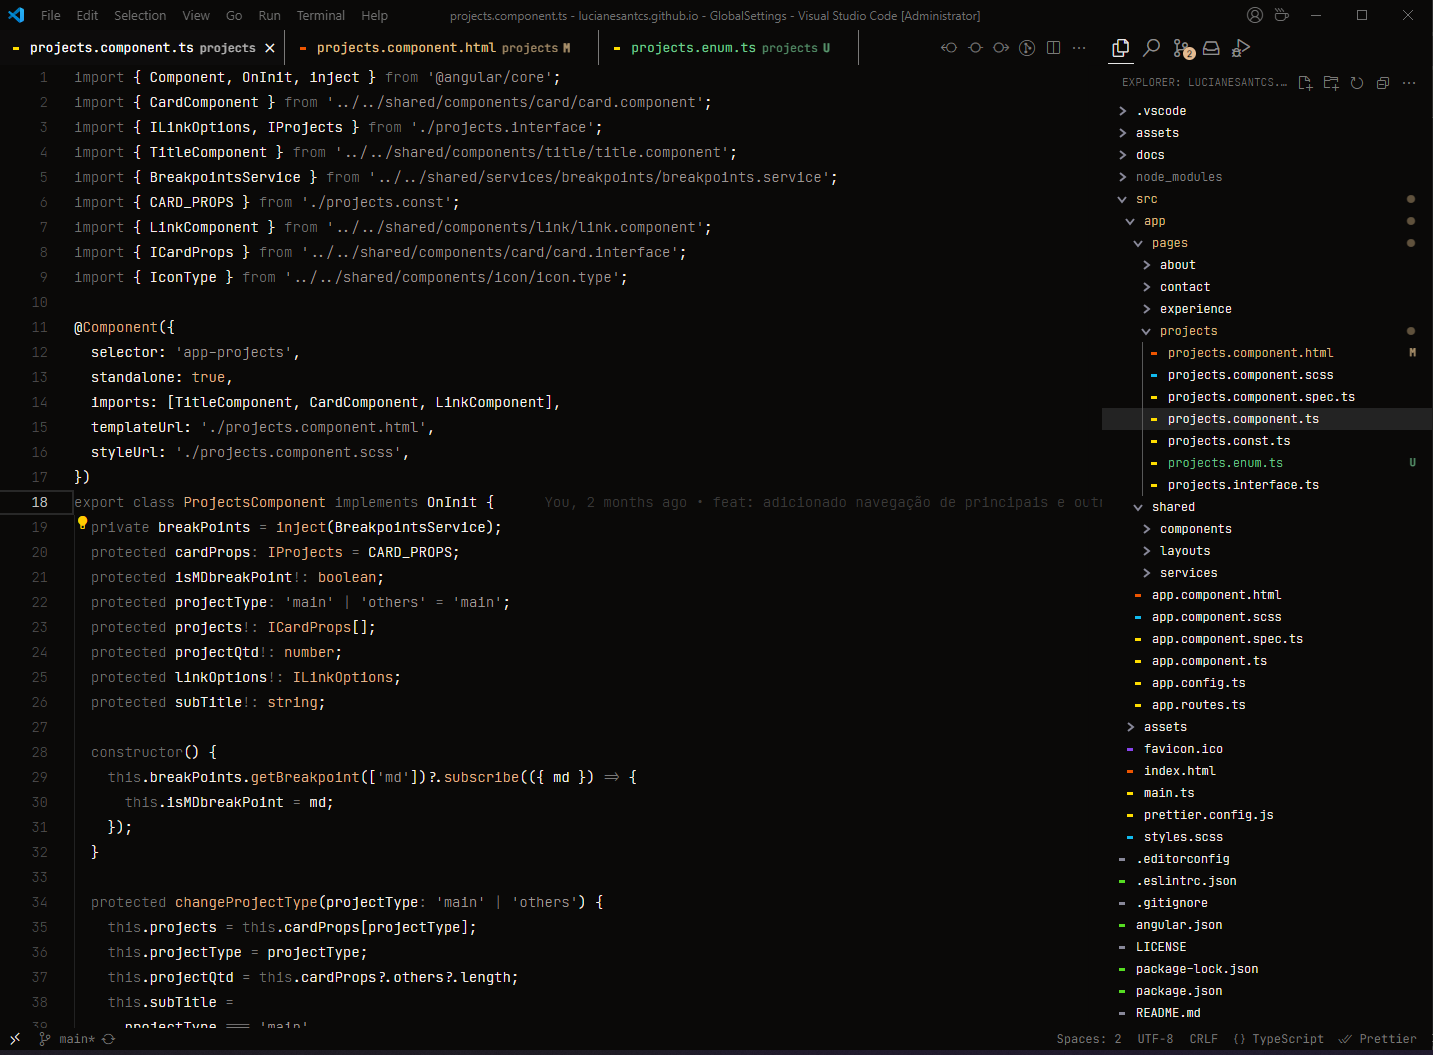
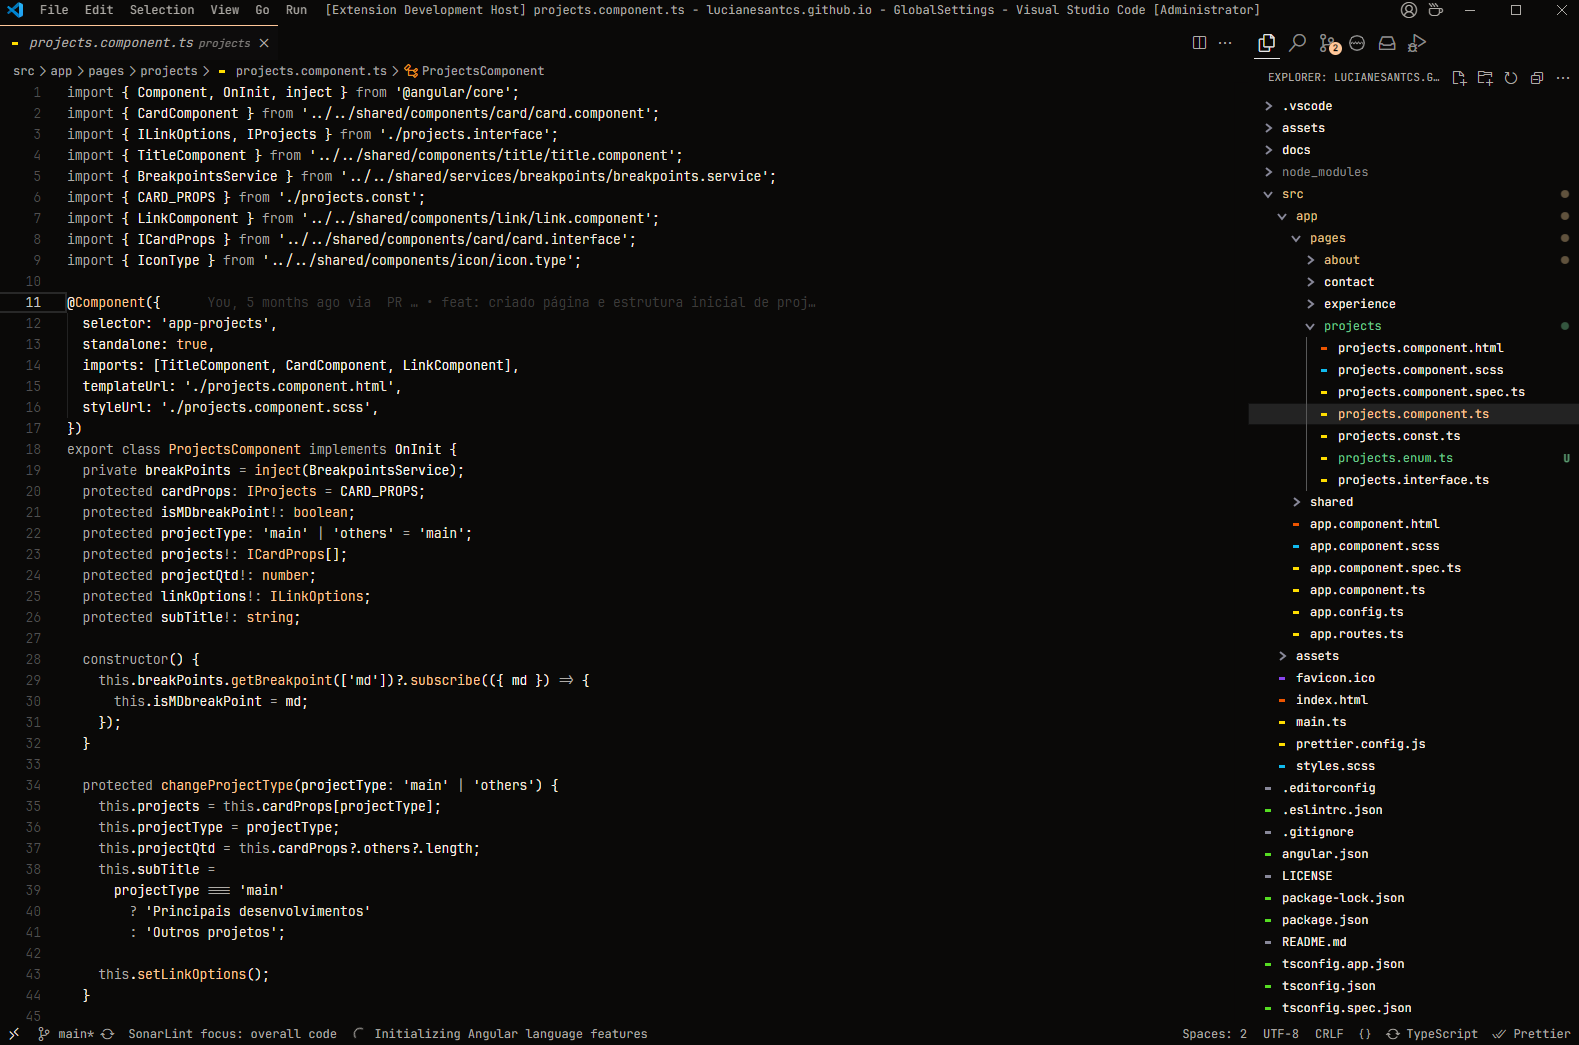
feat: alterado imagens de demo

diff --git a/README.md b/README.md
@@ -2,7 +2,8 @@
 
 Visual Studio Code dark-ish theme based on [Vesper Black](https://github.com/michaljach/vesper-black)
 
-![image](https://raw.githubusercontent.com/lucianesantcs/vesper-darkish/main/angular-code-example.png)
+![image](https://raw.githubusercontent.com/lucianesantcs/vesper-darkish/main/angular-code-example.png) 
+![image](https://raw.githubusercontent.com/lucianesantcs/vesper-darkish/main/angular-code-example-2.png)
 
 
 <a href="https://marketplace.visualstudio.com/items?itemName=jach.vesper-black"><strong>Install →</strong></a>
